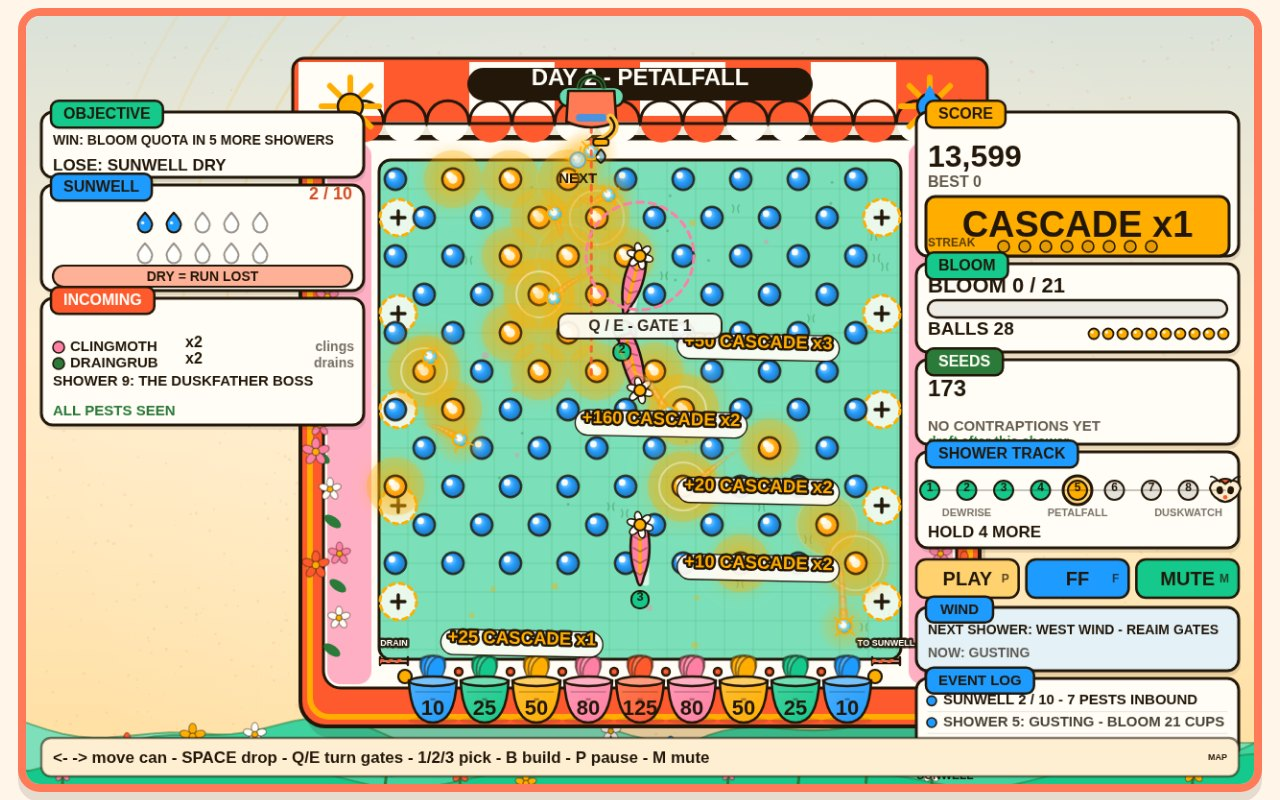
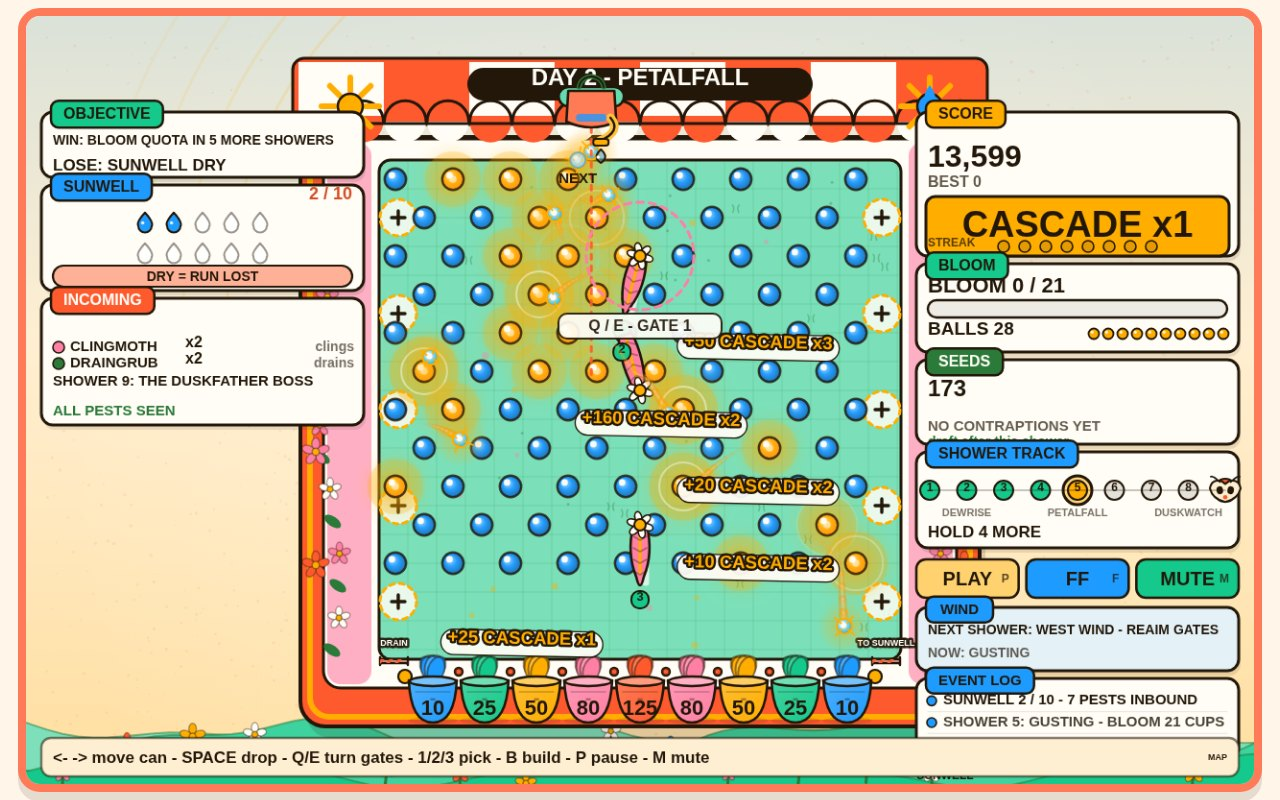
design fix round 3b: measured lit glow (halo 0.25/x2.6, soft core) after split panel

diff --git a/game/src/render/board.js b/game/src/render/board.js
@@ -643,11 +643,14 @@
       ctx.shadowBlur = lit ? 16 + flash * 12 : 10;
     }
     if (lit && !dead) {
-      // Fix round 3: halo strengthens (alpha 0.22 -> 0.30, radius x2.5 -> x2.7)
-      // now that the deeper bed gives it a ground to glow against.
+      // Fix round 3: halo strengthens (alpha 0.22 -> 0.25, radius x2.5 -> x2.6)
+      // now that the deeper bed gives it a ground to glow against. Kept
+      // measured: the first fix-3 panel split, one judge reading a stronger
+      // first pass as scattered gold wash - glow must stay a halo around a
+      // clearly gold peg, never a third colour spread across the board.
       ctx.beginPath();
-      ctx.arc(x, y, vr * (2.7 + flash * 1.2), 0, Math.PI * 2);
-      ctx.fillStyle = rgba(p.gold, 0.30 + flash * 0.14);
+      ctx.arc(x, y, vr * (2.6 + flash * 1.2), 0, Math.PI * 2);
+      ctx.fillStyle = rgba(p.gold, 0.25 + flash * 0.13);
       ctx.fill();
     }
     const halo = ctx.createRadialGradient(x - vr * 0.35, y - vr * 0.4, vr * 0.15, x, y, vr);
@@ -688,10 +691,11 @@
     }
     if (lit && !dead) {
       // hot core: a lit peg glints paper-white at its centre, the way sun
-      // catches a dew bead - the lit path reads as light itself, not paint.
+      // catches a dew bead - kept small and soft so the peg still reads
+      // gold first, glint second.
       ctx.beginPath();
-      ctx.arc(x, y, vr * 0.42, 0, Math.PI * 2);
-      ctx.fillStyle = rgba(p.paper, 0.85);
+      ctx.arc(x, y, vr * 0.34, 0, Math.PI * 2);
+      ctx.fillStyle = rgba(p.paper, 0.55);
       ctx.fill();
     }
     if (golden) {
